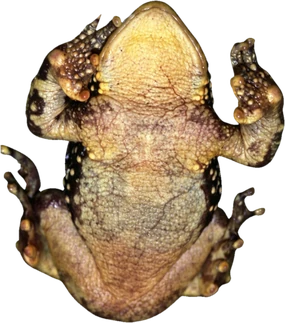
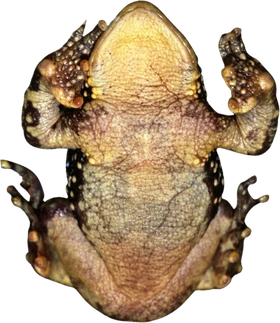
La especie: vientres de las dos coloraciones totalmente rectos

diff --git a/src/components/Species.jsx b/src/components/Species.jsx
@@ -3,8 +3,8 @@ import { useApp } from "../AppContext.jsx";
 /* Lámina: las dos coloraciones conocidas. Arriba, de perfil y al mismo tamaño (public/img/morfo-verde.webp y
    morfo-amarillo.webp, 736 × 486); debajo, tres vistas pequeñas (morfo-<id>-<vista>.webp) */
 const MORFOS = [
-  { id: "verde", es: "Verde y negro", en: "Green and black", arriba: [269, 323], abajo: [290, 323], frente: [340, 219] },
-  { id: "amarillo", es: "Amarillo y marrón", en: "Yellow and brown", arriba: [245, 323], abajo: [285, 323], frente: [340, 209] },
+  { id: "verde", es: "Verde y negro", en: "Green and black", arriba: [269, 323], abajo: [285, 323], frente: [340, 219] },
+  { id: "amarillo", es: "Amarillo y marrón", en: "Yellow and brown", arriba: [245, 323], abajo: [280, 323], frente: [340, 209] },
 ];
 const VISTAS = [
   { id: "arriba", es: "Lomo", en: "Back" },
